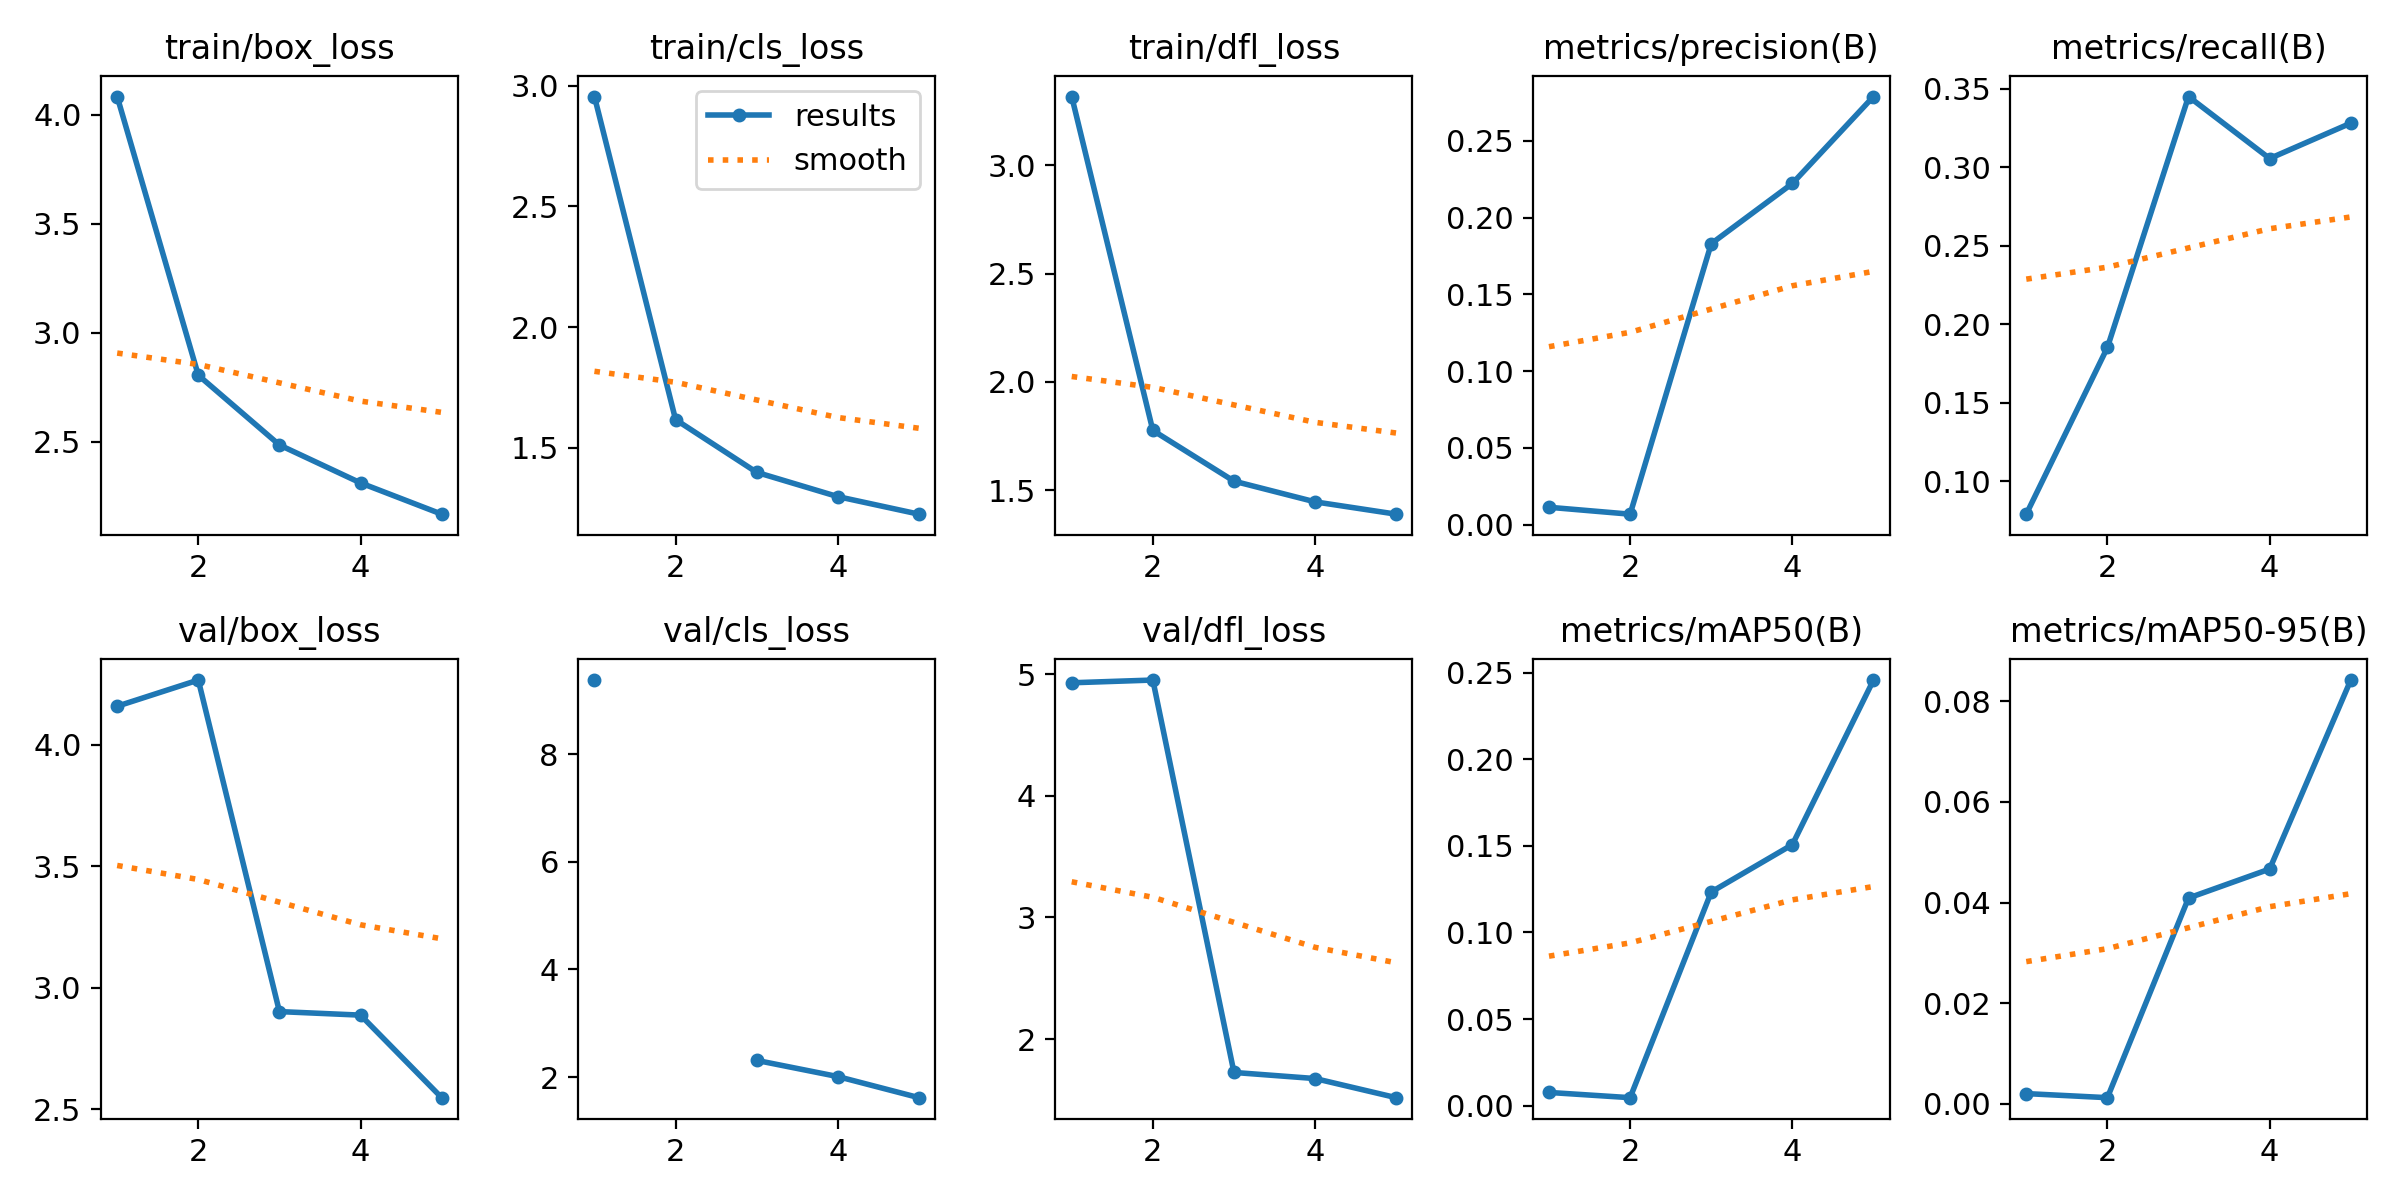
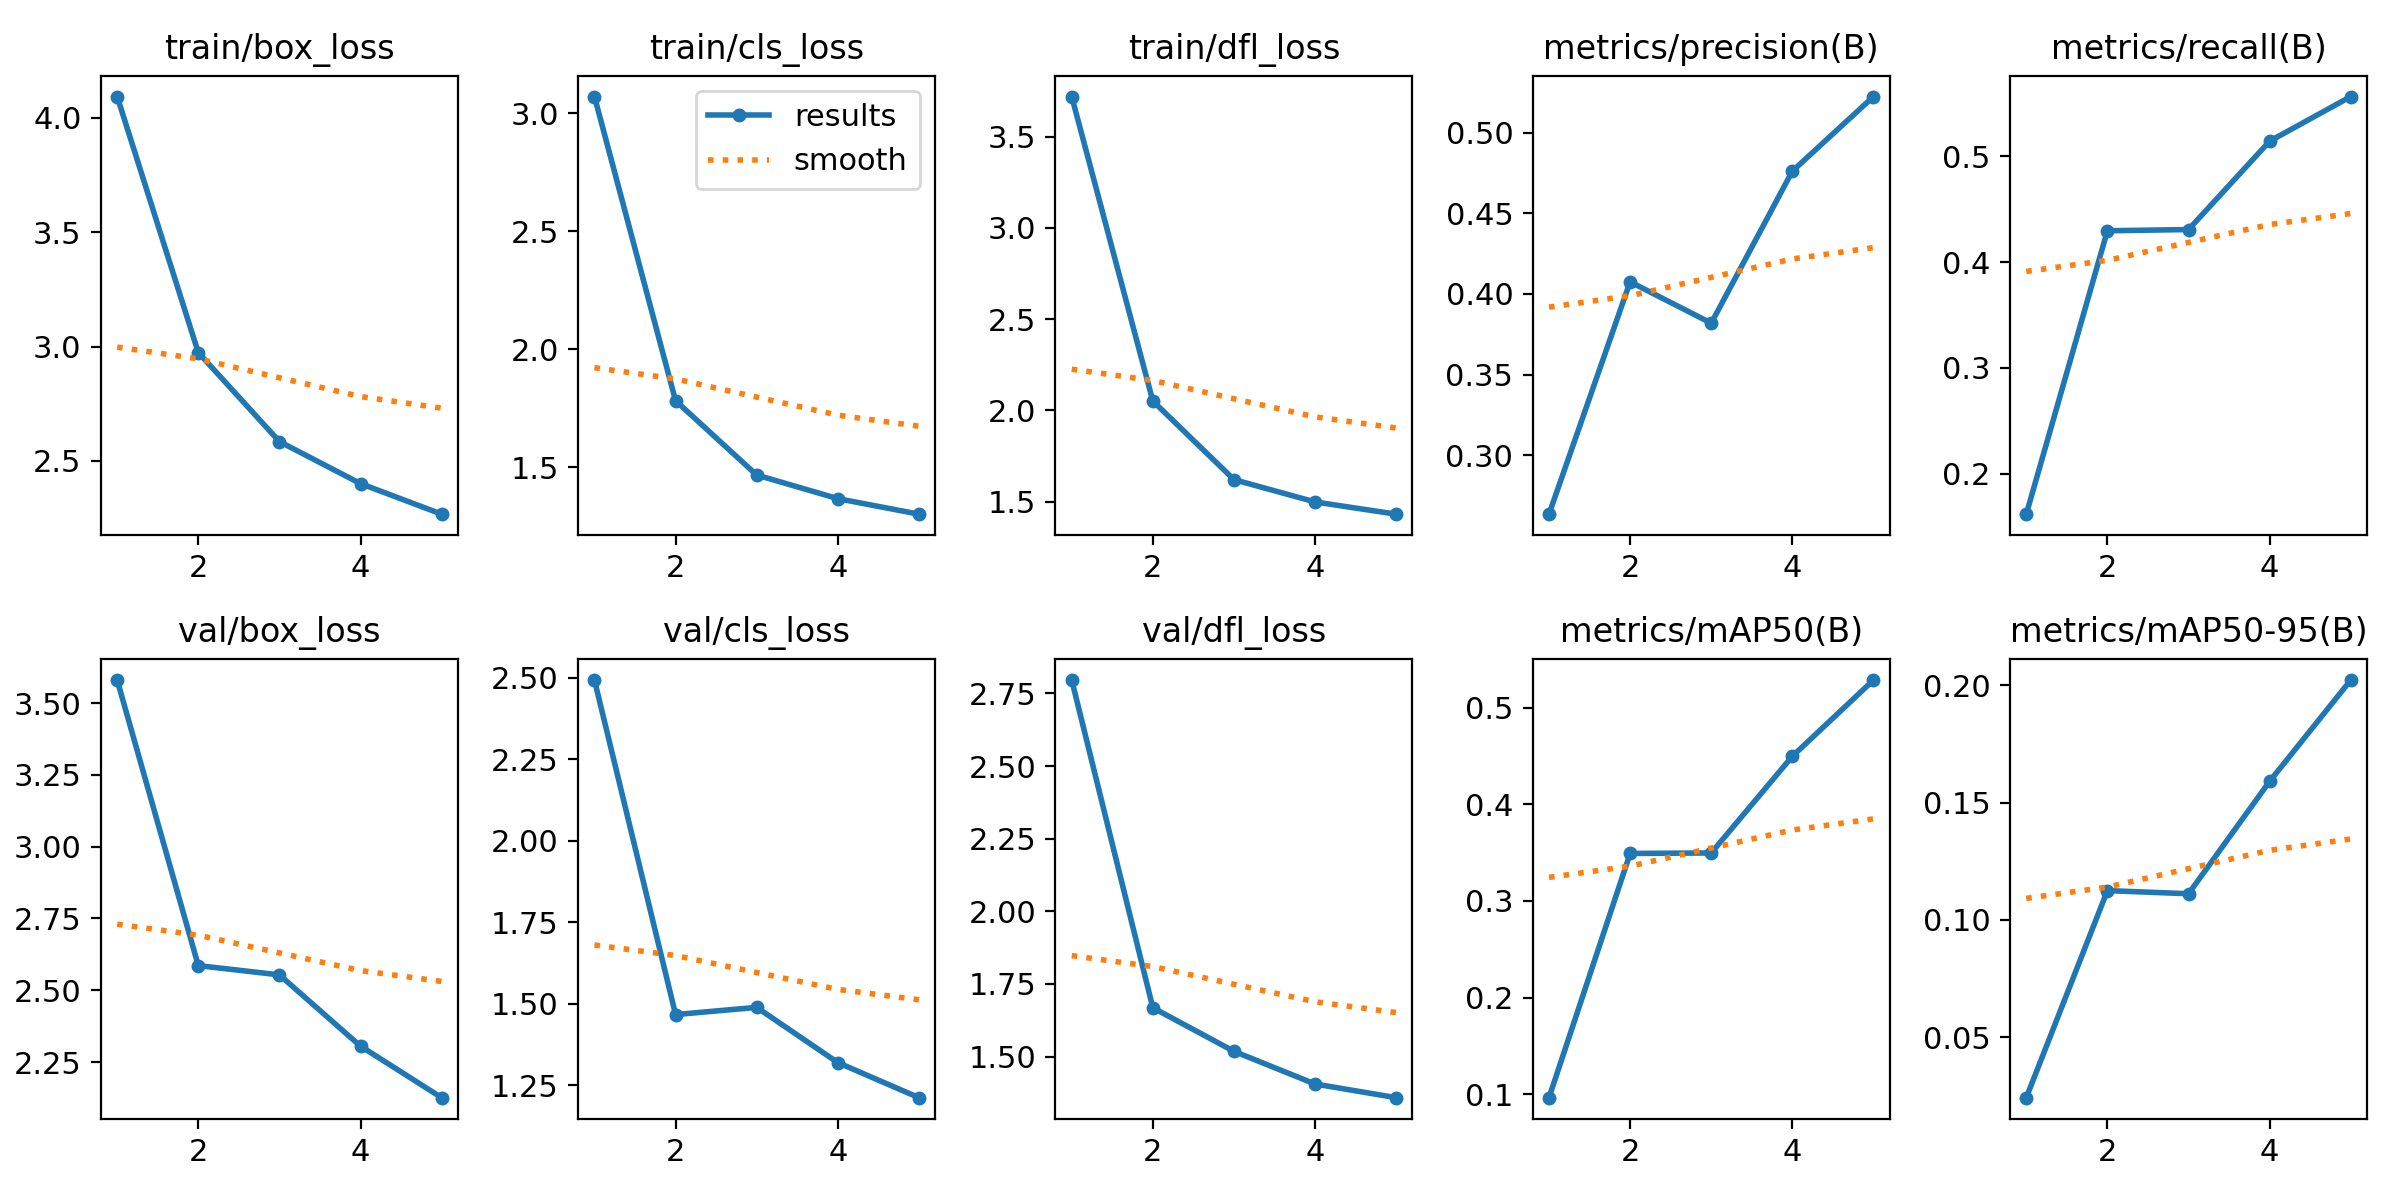
sync dashboard 20260828-124812

diff --git a/index.html b/index.html
@@ -152,7 +152,7 @@
     const pct = (v) => { const n = Number(v); return Number.isFinite(n) ? n.toFixed(4) : '—'; };
     const param = (v) => { const n = Number(v); return Number.isFinite(n) ? n.toFixed(3) + 'M' : '—'; };
     const delta = (v) => { const n = Number(v); return Number.isFinite(n) ? (n > 0 ? '+' : '') + n.toFixed(4) : '—'; };
-    const duration = (v) => { const n = Number(v); if(!Number.isFinite(n) || n < 0) return '—'; const total = Math.round(n); const h=Math.floor(total/3600), m=Math.floor((total%3600)/60), s=total%60; return h ? `${h}时${String(m).padStart(2,'0')}分` : m ? `${m}分${String(s).padStart(2,'0')}秒` : `${s}秒`; };
+    const duration = (v) => { if(v === null || v === undefined || String(v).trim() === '') return '—'; const n = Number(v); if(!Number.isFinite(n) || n < 0) return '—'; const total = Math.round(n); const h=Math.floor(total/3600), m=Math.floor((total%3600)/60), s=total%60; return h ? `${h}时${String(m).padStart(2,'0')}分` : m ? `${m}分${String(s).padStart(2,'0')}秒` : `${s}秒`; };
     const statusLabel = {reference:'基准',reference_screen:'基准',trained:'已训练',build_ok:'可构建',training:'训练中',interrupted:'中途停止',skipped_oom:'OOM跳过',skipped_timeout:'超时跳过',failed:'结构失败'};
     let currentMode = 'screen';
     const savedTheme = localStorage.getItem('maize-theme'); if(savedTheme === 'dark') document.body.classList.add('dark');
